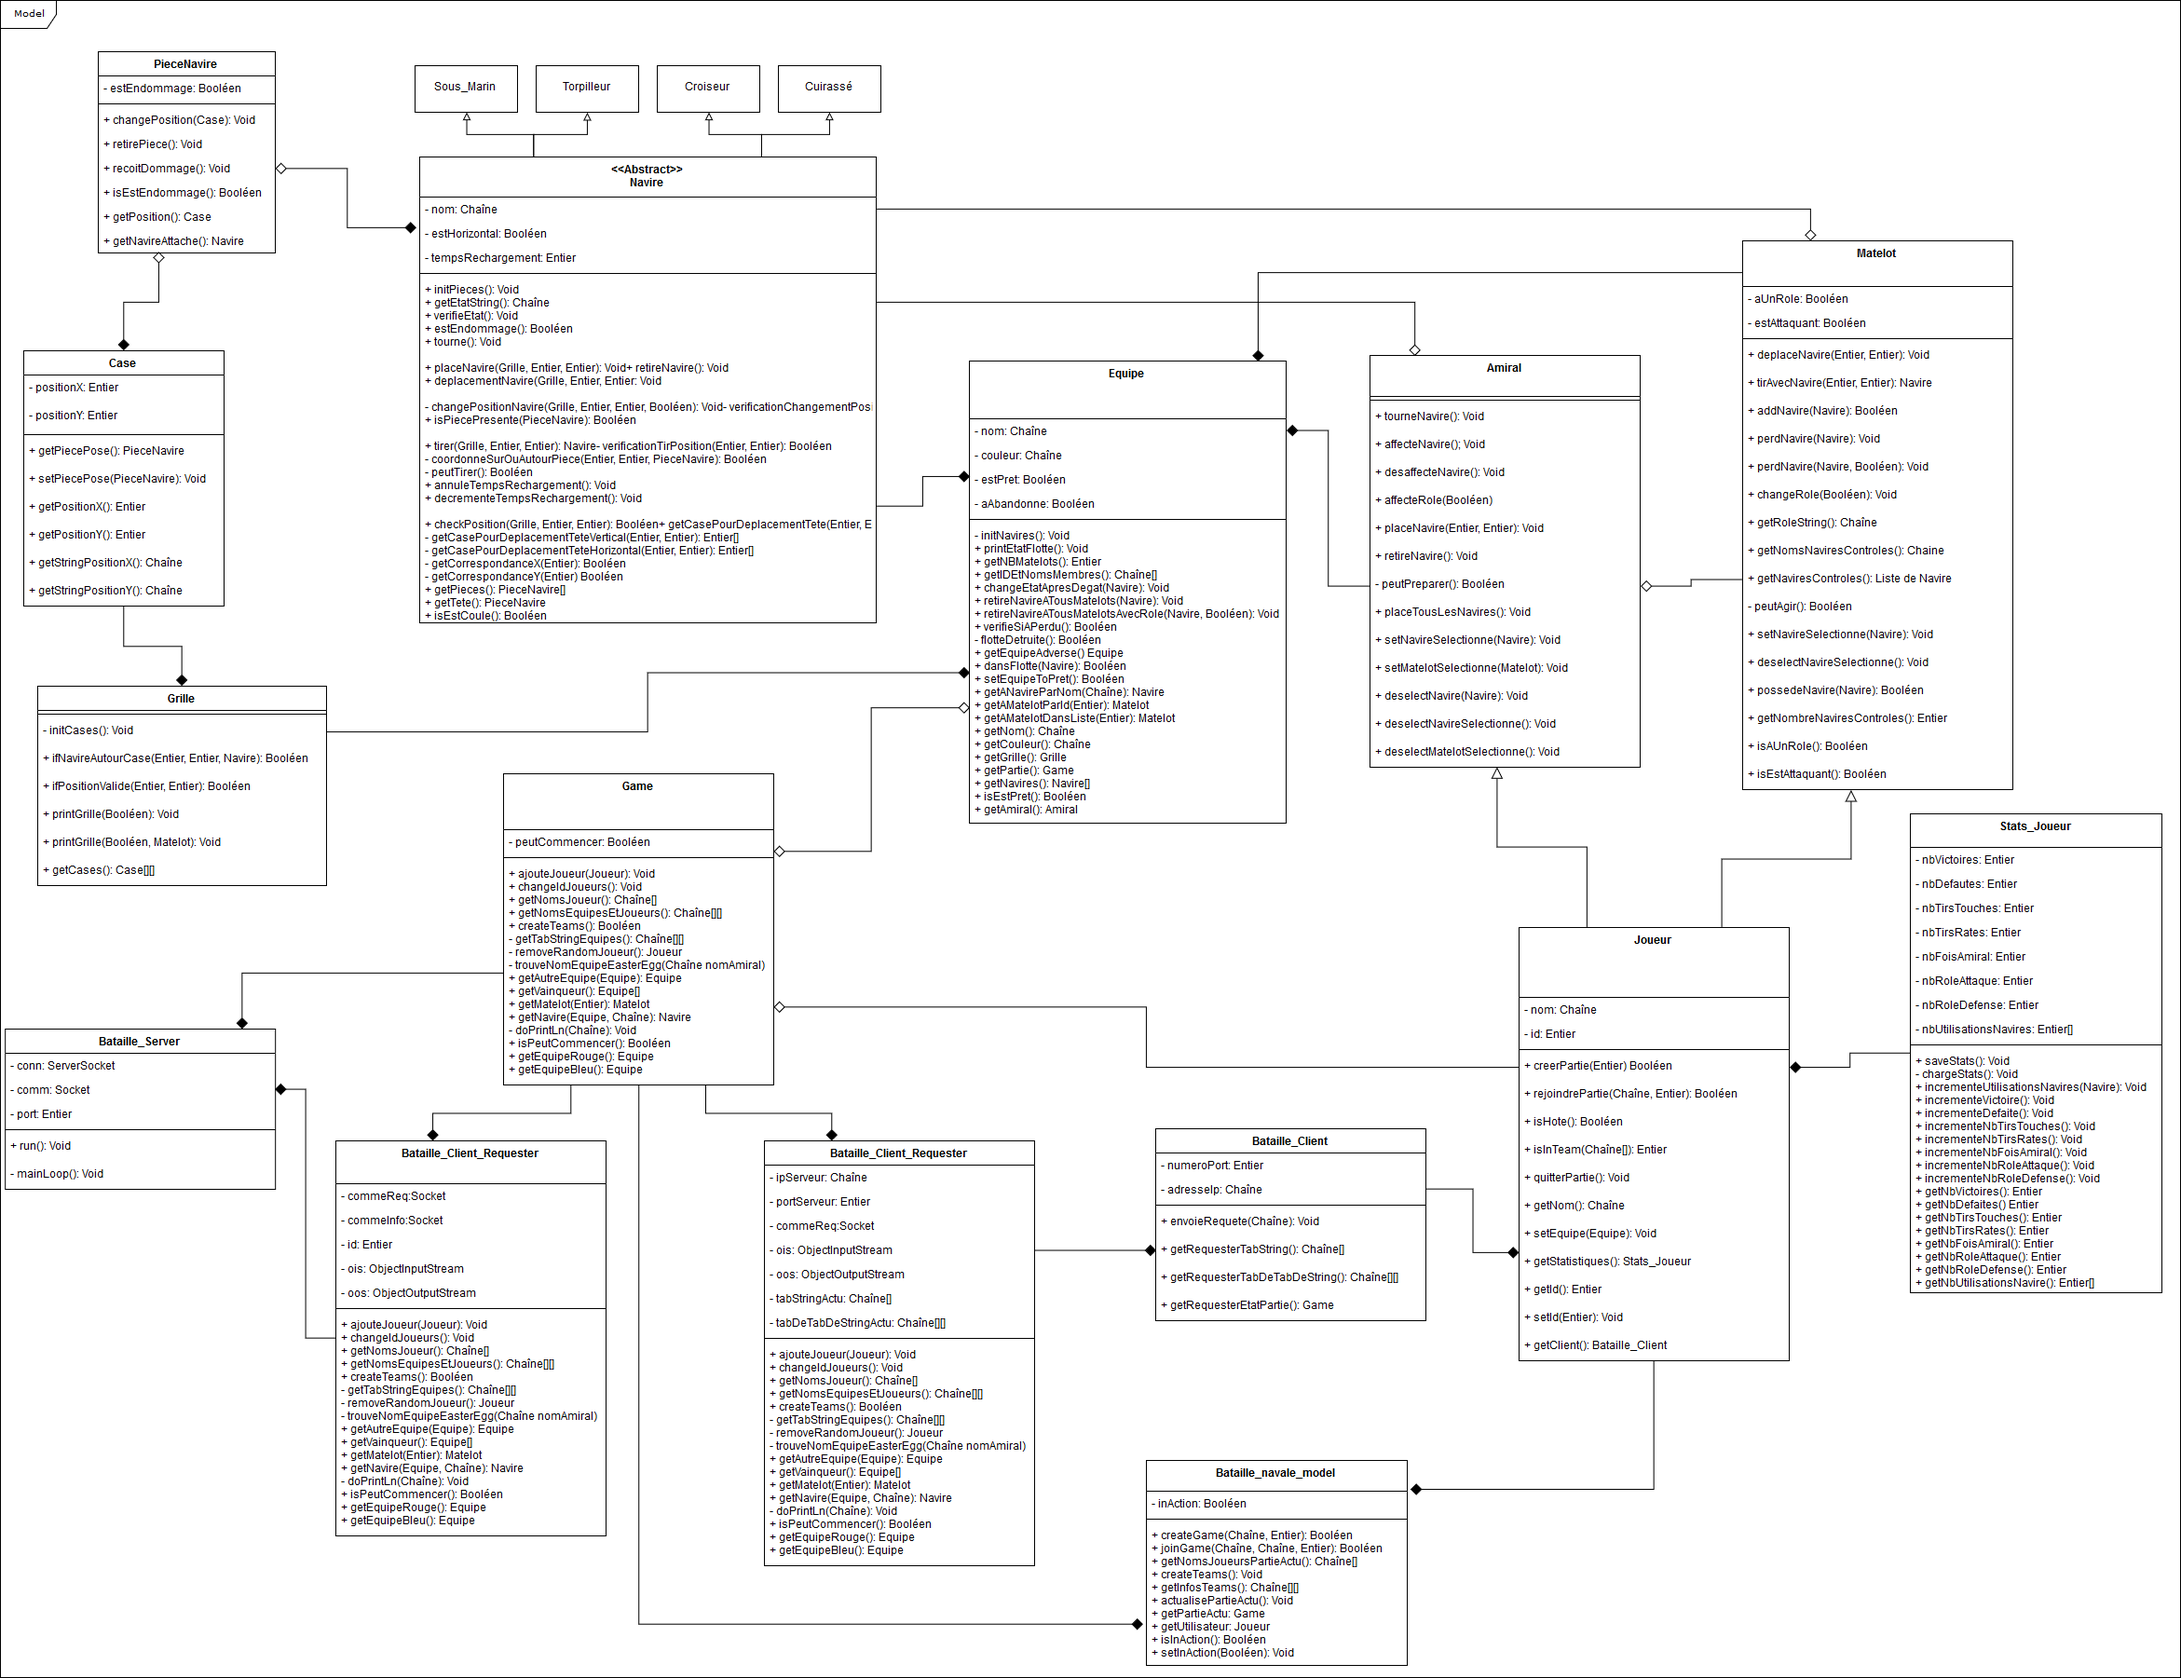
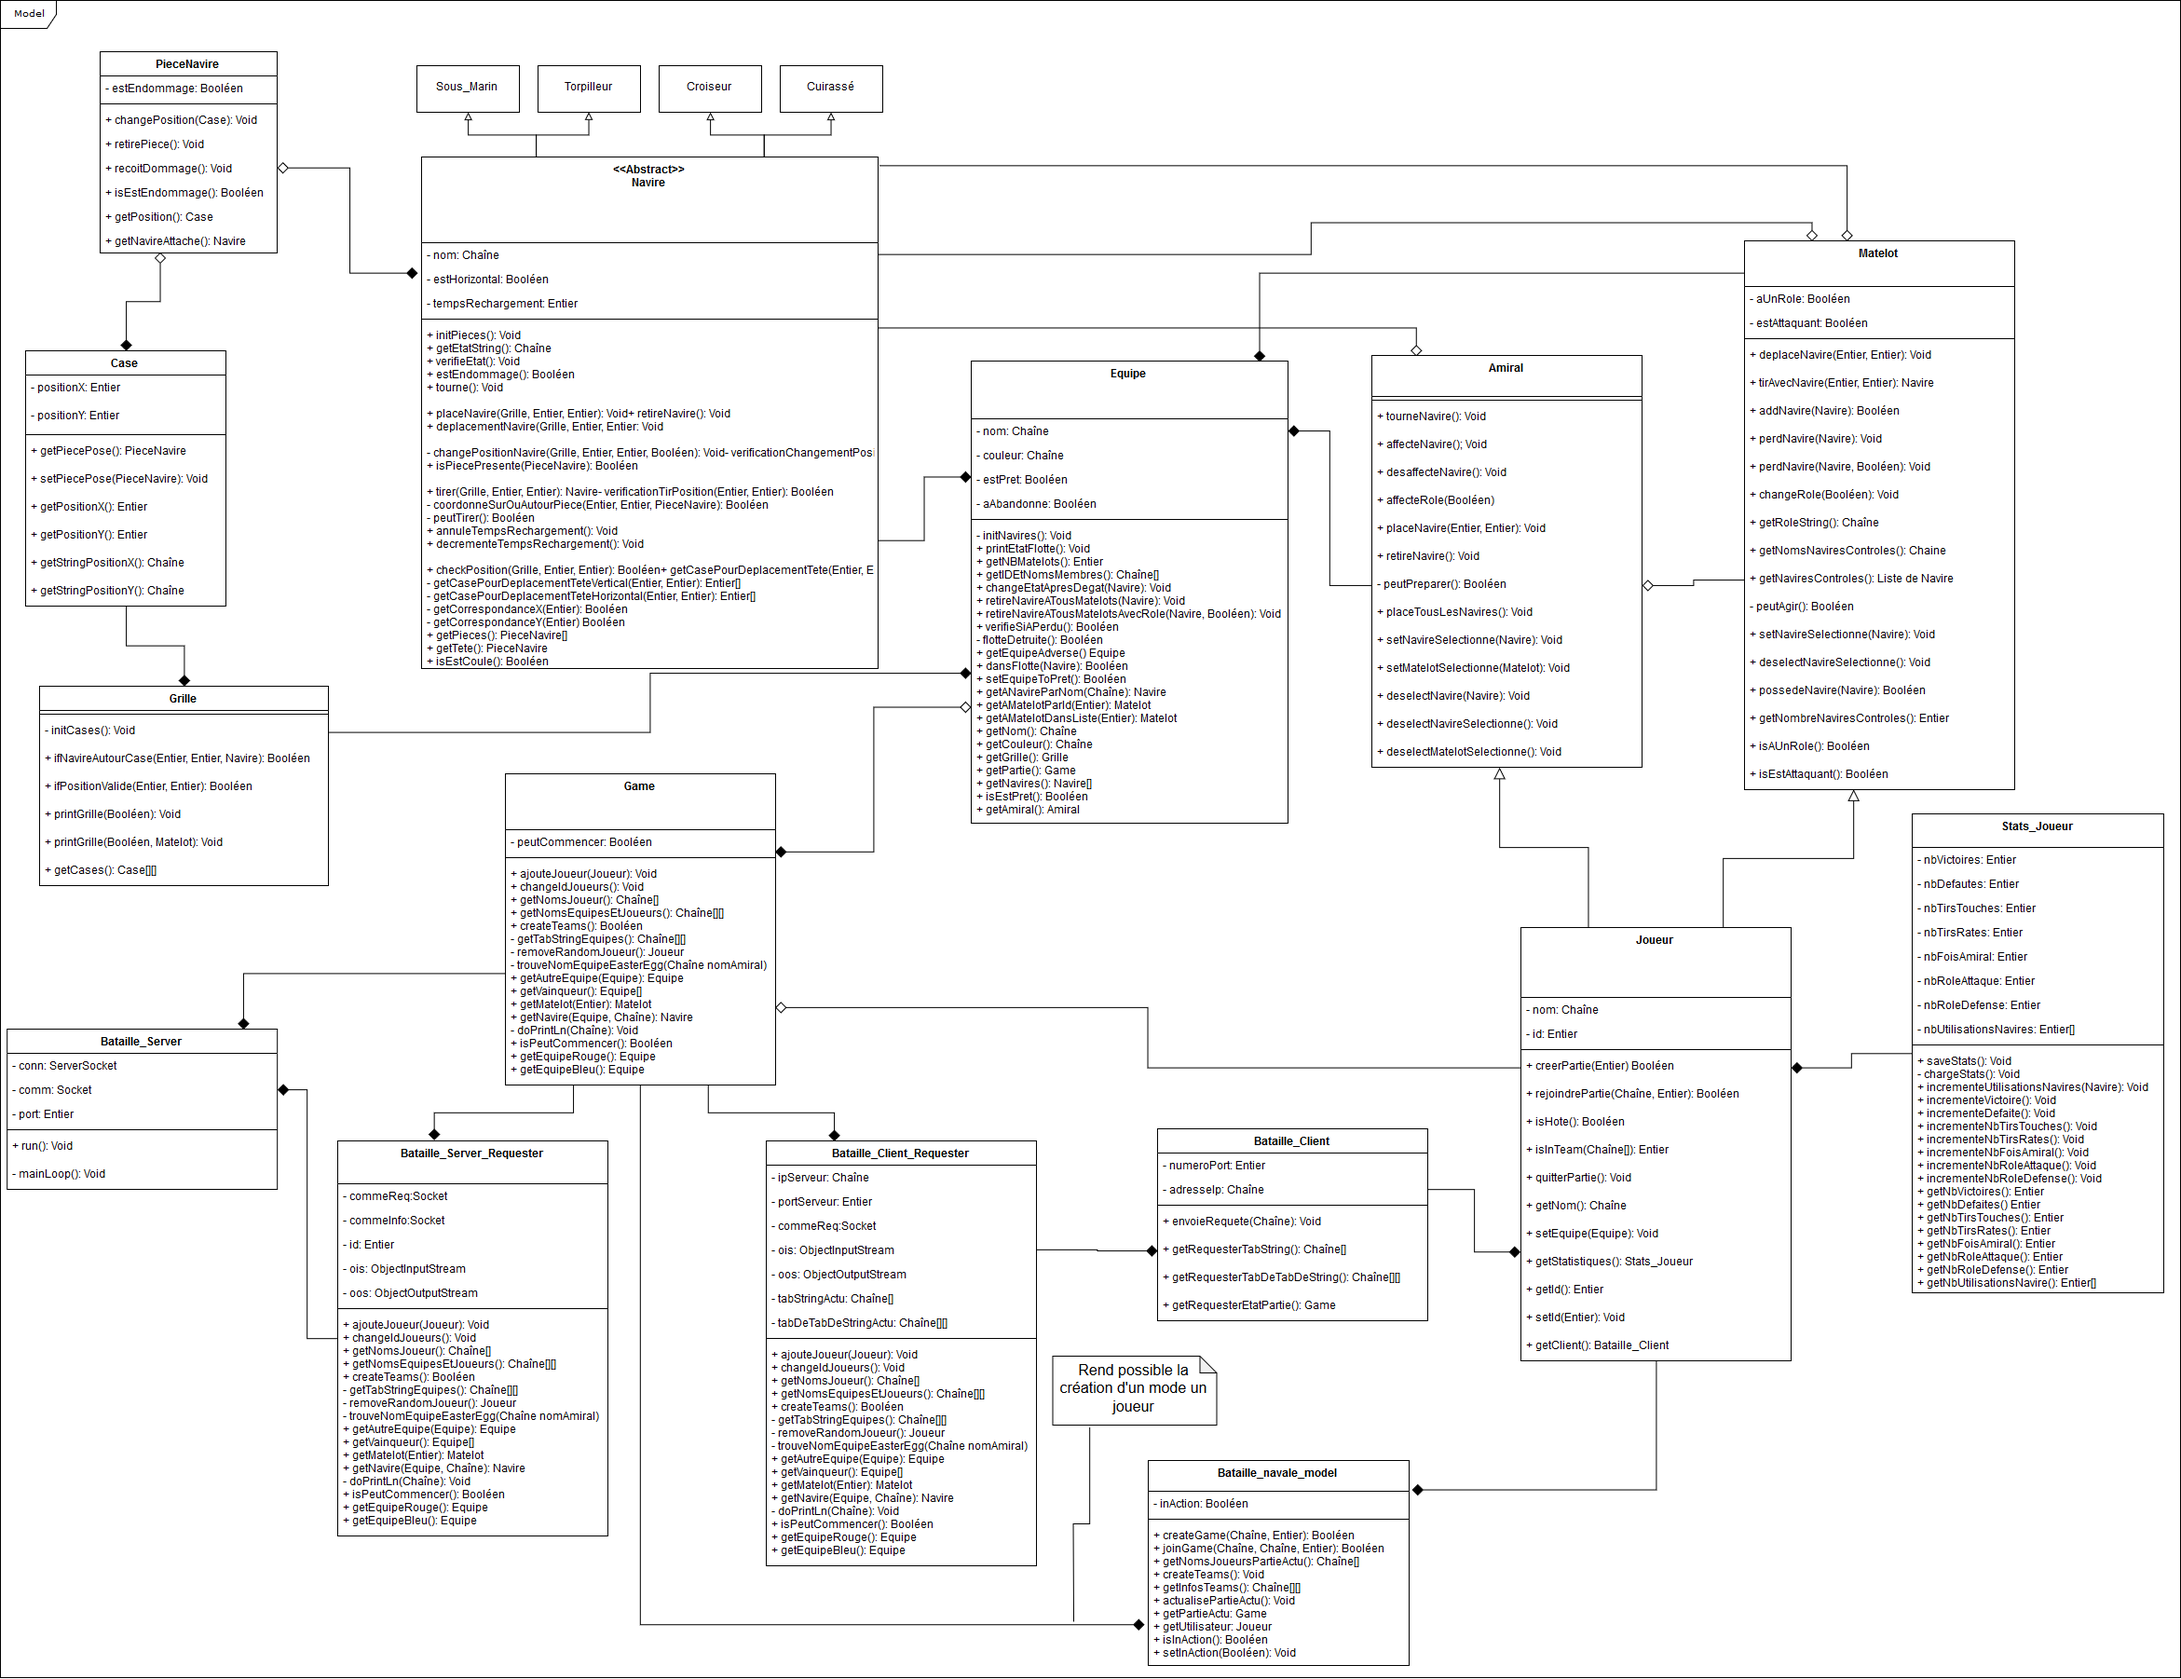
Avancement dans le rapport
Le diagramme des classes a été légèrement modifié et une deuxième version avec les cardinalités a vu le jour.
De plus, il y a désormais un dossier consacré aux images qui seront mis dans le rapport (ah oui, et le changement de GameTest est juste  un déplacement de commentaire OSEF pour une capture d'écran)

diff --git a/src/test/java/model/GameTest.java b/src/test/java/model/GameTest.java
@@ -42,7 +42,7 @@ public class GameTest {
 		Amiral amiralR = rouge.getAmiral();
 		Matelot matelotBAtt = bleu.getAMatelotDansListe(1);
 		
-		//L'amiral rouge va placer tous ses navires et annoncer qu'il est prêt
+		//L'Amiral rouge va placer tous ses navires et annoncer qu'il est prêt
 		amiralR.placeTousLesNavires();
 		rouge.setEquipeToPret();
 		
@@ -51,7 +51,9 @@ public class GameTest {
 		bleu.setEquipeToPret();
 		Navire navireDeTir = bleu.getNavires()[0]; //Le premier navire de l'équipe: le cuirassé
 		Navire navireCible = rouge.getNavires()[0];
-	    Case positionCible = navireCible.getTete().getPosition(); //Comme les deux équipes ont placés leurs navires de la même manière, cela devrait fonctionner
+		
+		//Comme les deux équipes ont placés leurs navires de la même manière, cela devrait fonctionner
+	    Case positionCible = navireCible.getTete().getPosition();
 	    amiralB.setNavireSelectionne(navireDeTir);
 	    amiralB.setMatelotSelectionne(matelotBAtt);
 	    amiralB.affecteRole(true);
